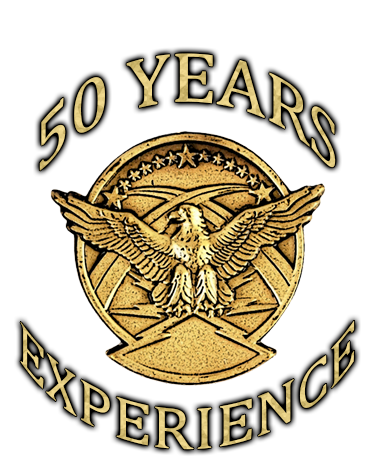
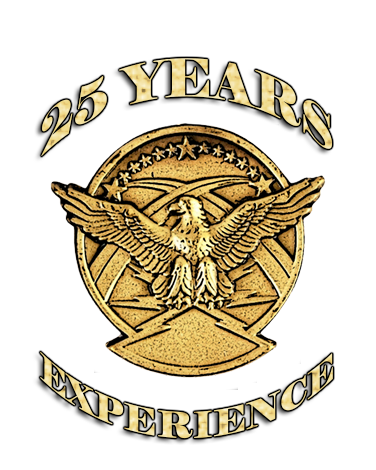
v5

diff --git a/gallery.html b/gallery.html
@@ -110,9 +110,9 @@
 			<h1>Gallery</h1>
 				<div class="row">
             <div class="col-md-4">
-            	<a href="assets/img/gallery/copper.jpg">
+            	<a href="assets/img/gallery/gallery1.jpg">
               <div class="card mb-4 box-shadow">
-                <img class="card-img-top" src="assets/img/gallery/copper.jpg" alt="Card image cap">
+                <img class="card-img-top" src="assets/img/gallery/gallery1.jpg" alt="Card image cap">
                 <div class="card-body">
                   <p class="card-text">Exposing copper wires using the Elite Etch Cu</p>
                 </div>
@@ -120,9 +120,9 @@
             	</a>
             </div>
             <div class="col-md-4">
-              <a href="assets/img/gallery/wires.jpg">
+              <a href="assets/img/gallery/gallery2.jpg">
               <div class="card mb-4 box-shadow">
-                <img class="card-img-top" src="assets/img/gallery/wires.jpg" alt="Card image cap">
+                <img class="card-img-top" src="assets/img/gallery/gallery2.jpg" alt="Card image cap">
                 <div class="card-body">
                   <p class="card-text">Perfectly preserved bond wires after decapsulation</p>
                 </div>
@@ -130,9 +130,9 @@
             	</a>
             </div>
             <div class="col-md-4">
-            	<a href="assets/img/gallery/tolerance.jpg">
+            	<a href="assets/img/gallery/gallery3.jpg">
               <div class="card mb-4 box-shadow">
-                <img class="card-img-top" src="assets/img/gallery/tolerance.jpg" alt="Card image cap">
+                <img class="card-img-top" src="assets/img/gallery/gallery3.jpg" alt="Card image cap">
                 <div class="card-body">
                   <p class="card-text">Tolerance of 0.78 millimeters left on the edge</p>
                 </div>
@@ -141,9 +141,9 @@
             </div>
 
             <div class="col-md-4">
-              <a href="assets/img/gallery/haas-mill.jpg">
+              <a href="assets/img/gallery/gallery4.jpg">
               <div class="card mb-4 box-shadow">
-                <img class="card-img-top" src="assets/img/gallery/haas-mill.jpg" alt="Card image cap">
+                <img class="card-img-top" src="assets/img/gallery/gallery4.jpg" alt="Card image cap">
                 <div class="card-body">
                   <p class="card-text">Our primary CNC Mill for parts manufacturing</p>
                 </div>
@@ -151,9 +151,9 @@
             </a>
             </div>
             <div class="col-md-4">
-              <a href="assets/img/gallery/mini-mill.jpg">
+              <a href="assets/img/gallery/gallery5.jpg">
               <div class="card mb-4 box-shadow">
-                <img class="card-img-top" src="assets/img/gallery/mini-mill.jpg" alt="Card image cap">
+                <img class="card-img-top" src="assets/img/gallery/gallery5.jpg" alt="Card image cap">
                 <div class="card-body">
                   <p class="card-text">Our Mini CNC Mill for smaller precise parts</p>
                 </div>
@@ -161,9 +161,9 @@
             </a>
             </div>
             <div class="col-md-4">
-              <a href="assets/img/gallery/part.jpg">
+              <a href="assets/img/gallery/gallery6.jpg">
               <div class="card mb-4 box-shadow">
-                <img class="card-img-top" src="assets/img/gallery/part.jpg" alt="Card image cap">
+                <img class="card-img-top" src="assets/img/gallery/gallery6.jpg" alt="Card image cap">
                 <div class="card-body">
                   <p class="card-text">A completed mill operation to create an alignment plate</p>
                 </div>
@@ -172,9 +172,9 @@
             </div>
 
             <div class="col-md-4">
-              <a href="assets/img/gallery/gaskets.jpg">
+              <a href="assets/img/gallery/gallery7.jpg">
               <div class="card mb-4 box-shadow">
-                <img class="card-img-top" src="assets/img/gallery/gaskets.jpg" alt="Card image cap">
+                <img class="card-img-top" src="assets/img/gallery/gallery7.jpg" alt="Card image cap">
                 <div class="card-body">
                   <p class="card-text">Gaskets used to direction the flow of decapsulant</p>
                 </div>
@@ -182,9 +182,9 @@
             </a>
             </div>
             <div class="col-md-4">
-              <a href="assets/img/gallery/kit.jpg">
+              <a href="assets/img/gallery/gallery8.jpg">
               <div class="card mb-4 box-shadow">
-                <img class="card-img-top" src="assets/img/gallery/kit.jpg" alt="Card image cap">
+                <img class="card-img-top" src="assets/img/gallery/gallery8.jpg" alt="Card image cap">
                 <div class="card-body">
                   <p class="card-text">A kit for Elite Etch products with chemical resistant components</p>
                 </div>
@@ -192,9 +192,9 @@
             </a>
             </div>
             <div class="col-md-4">
-              <a href="assets/img/gallery/decap.jpg">
+              <a href="assets/img/gallery/gallery9.jpg">
               <div class="card mb-4 box-shadow">
-                <img class="card-img-top" src="assets/img/gallery/decap.jpg" alt="Card image cap">
+                <img class="card-img-top" src="assets/img/gallery/gallery9.jpg" alt="Card image cap">
                 <div class="card-body">
                   <p class="card-text">A decapsulated 5 gate mosfet with gold wires</p>
                 </div>

diff --git a/company-information.html b/company-information.html
@@ -118,14 +118,14 @@
             <img class="pull-left rounded" src="assets/img/tech.png" style="margin:20px 20px 0px 0px; width:350px;">
             <b>Origin</b><br>
             <p>RKD Engineering was formed in 2006 in Scotts Valley, California, in partnership with KAS Machine Products, a family owned and operated machine shop since 1990. The cofounder and president of RKD Engineering, Dan Kaschalk, saw the advantage in providing a product with expertly machined parts made in-house to perfect tolerance specifications. In addition to oversight of the entire manufacturing process, the value to the customer is increased by guaranteeing the best possible end product.</p>
-            <p>RKD Engineering developed the first machine pump which could reliably deliver highly concentrated chemical etchants. Using this technology, a team developed an automated system to etch plastic semiconductor packages to reveal the microscopic bond wires within. This was the Elite Etch 7000, which is still used in the market today. </p>
+            <p>RKD Engineering developed the first programmable pump which could reliably deliver highly concentrated chemical etchants. Using this technology, a team developed an automated system to etch plastic semiconductor packages to reveal the microscopic bond wires within. This was the Elite Etch 7000, which is still used in the market today. </p>
             <div class="col-md-1"></div>
 						<b>Moving Ahead</b><br>
 						<p>Kaschalk and his sons have led the company to innovate and design new products to adapt to the ever-changing semiconductor market. RKD has allowed analysts to expose gold, copper, aluminum, and even silver bond wire packages for failure analysis. The product line features an extensive suite of tools which automate the process using the quickest and most efficient method possible.</p>
 						<p>RKD Engineering continues to develop products that will make sample preparation easier, faster, and more accurate as well as extending its expertise into new markets such as counterfeit detection and evaluation. Our engineering expertise is available for custom tooling and process equipment.</p>
-						<center><b>Our Customers</b></center>
+						<!--center><b>Our Customers</b></center>
 						<center><p>Some of our leading customers include:</p></center>
-						<center><img src="assets/img/customers.png" style="width:800px;"></center>
+						<center><img src="assets/img/customers.png" style="width:800px;"></center-->
 						</div>
 					<div class="col-md-1"></div>
 					</div>

diff --git a/index.html b/index.html
@@ -219,10 +219,10 @@
 
 				<div class="col-md-5">
 					<div class="card card-height">
-						<img class="card-img-top" src="assets/img/before-after.png" alt="">
+						<a href="gallery.html"><img class="card-img-top" src="assets/img/before-after.png" alt=""></a>
 						<div class="card-block px-3">
 							<h2 class="card-title" style="margin-top: 20px; color: #007bff;">RKD Engineering</h2>
-							<p class="card-text">RKD Engineering specializes in acid decapsulation for semiconductor packages. With over 50 years of experience in the industry, our mission is to provide the highest quality products for semiconductor failure analysis by using a patented "wet etch" acid delivery system.</p>
+							<p class="card-text">RKD Engineering specializes in acid decapsulation for semiconductor packages. With over 25 years of experience in the failure analysis and semiconductor industry, our mission is to provide the highest quality products for semiconductor failure analysis by using a patented "wet etch" acid delivery system.</p>
 							<p class="card-text"><b>Product Features:</b><br>
 								&bull; The most complete line of Failure Analysis sample preparation systems.<br>
 								&bull; Easy to use counterfeit detection systems and equipment packages.<br>
@@ -320,8 +320,9 @@
 					<div class="col-sm-1"></div>
 					<div class="col-sm-2">
 						<a href="company-information.html"><img src="assets/img/medal.png" class="button-grow" alt="..." style="width:100px"></a><br>
-						<img src="assets/img/ce-mark.png" style="width:50px; padding-top: 5px; padding-right: 5px;">
-						<img src="assets/img/rohs.png" style="padding-top: 10px;">
+						<a href="https://ec.europa.eu/growth/single-market/ce-marking_en" target="_blank"><img src="assets/img/ce-mark.png" style="width:50px; padding-top: 5px; padding-right: 5px;"></a>
+						<a href="http://ec.europa.eu/environment/index_en.htm" target="_blank"><img src="assets/img/rohs.png" style="padding-top: 10px;"></a>
+						<a href="https://www.nist.gov/" target="_blank"><img src="assets/img/nist.png" style="padding-top: 10px;width:100px"></a>
 					</div>
 				</div>
 			</div>

diff --git a/patented-technology.html b/patented-technology.html
@@ -117,9 +117,9 @@
 					<div class="col-md-6"><br><a href="assets/img/patent-cover.png"><img src="assets/img/patent-cover.png" style="width:650px"></a></div>
 					<div class="col-md-1"></div>
 					<div class="col-md-3"><br>
-						<p>RKD Engineering uses its very own <a href="http://patft.uspto.gov/netacgi/nph-Parser?Sect1=PTO1&Sect2=HITOFF&d=PALL&p=1&u=%2Fnetahtml%2FPTO%2Fsrchnum.htm&r=1&f=G&l=50&s1=9059184.PN.&OS=PN/9059184&RS=PN/9059184" target="_blank">Patented Technology</a> in the final product.</p>
-            <p>The patent entered a pending state in 2011 and in 2015 the patent was approved.</p>
+						<p>RKD Engineering uses its very own <!--a href="http://patft.uspto.gov/netacgi/nph-Parser?Sect1=PTO1&Sect2=HITOFF&d=PALL&p=1&u=%2Fnetahtml%2FPTO%2Fsrchnum.htm&r=1&f=G&l=50&s1=9059184.PN.&OS=PN/9059184&RS=PN/9059184" target="_blank"-->Patented Technology</a> in the final product. The patent entered a pending state in 2011 and in 2015 the patent was approved.</p>
             <p>Our technology employs a high velocity metered pump to displace concentrated acid to a selective location of an encapsulated integrated circuit.</p>
+            <p>This patented technology is proprietary to RKD and has not been licensed to any other entity.</p>
             <center><img src="assets/img/trademark.png" style="width:150px;"></center>
 						<div class="col-md-1"></div>
 					</div>

diff --git a/fluid-handling.html b/fluid-handling.html
@@ -117,7 +117,7 @@
        <div class="col-md-10">
         <br>
         <b>All PTFE fluid control modules</b><br>
-        <p>RKD Engineering, Corp designs and manufactures positive displacement diaphragm metering pumps and fluid handling systems. These pumps have all PTFE wetted parts and are pneumatically actuated to totally isolate the fluid path. They are primarily used in our semiconductor failure analysis products to handle highly corrosive fuming nitric and sulfuric acids as well as organic solvents. We also offers custom pumping systems tailored to lab specific needs with multiple sources, valves, fluid flow measurement, and control.</p>
+        <p>RKD Engineering, Corp designs and manufactures positive displacement diaphragm metering pumps and fluid handling systems. These pumps have all PTFE wetted parts and are pneumatically actuated to totally isolate the fluid path. They are primarily used in our semiconductor failure analysis products to handle highly corrosive fuming nitric and sulfuric acids as well as organic solvents. We also offers custom pumping systems tailored to lab specific needs with multiple sources, valves, fluid flow measurement, and customized user interface control.</p>
         <div class="row">
           <div class="col-sm-10">
             <div id="carousel" class="carousel" data-interval="false" data-ride="carousel">

diff --git a/counterfeit-detection.html b/counterfeit-detection.html
@@ -128,7 +128,7 @@
 						<b>The Solution</b>
 						<p>The challenge of verifying the true manufacturer comes from the integrated circuit packaging process. The original manufacturer will often stamp the die itself with a barcode or a logo, before sealing the package with the plastic epoxy. A visual inspection is often necessary to ensure that the internal circuitry is correctly wired or that the manufacturer identifier exists. By using an RKD Engineering decapsulator, the quality of the die is maintained while the tough plastic is etched away. This leaves the die and bond wires perfectly exposed, so that the analyst can easily verify the authenticity of the product.</p>
             <b>Learn More:</b>
-            <p>Read the <a href="https://www.semiconductors.org/issues/anticounterfeiting/anti_counterfeiting/">Semiconductor Industry Association's white paper</a> on anti-counterfeiting and the risk of IP theft in the industry.</p></div>
+            <p>Read the <a href="https://www.semiconductors.org/issues/anticounterfeiting/anti_counterfeiting/" target="_blank">Semiconductor Industry Association's white paper</a> on anti-counterfeiting and the risk of IP theft in the industry.</p></div>
 						<div class="col-md-1"></div>
 					</div>
 				<hr>
